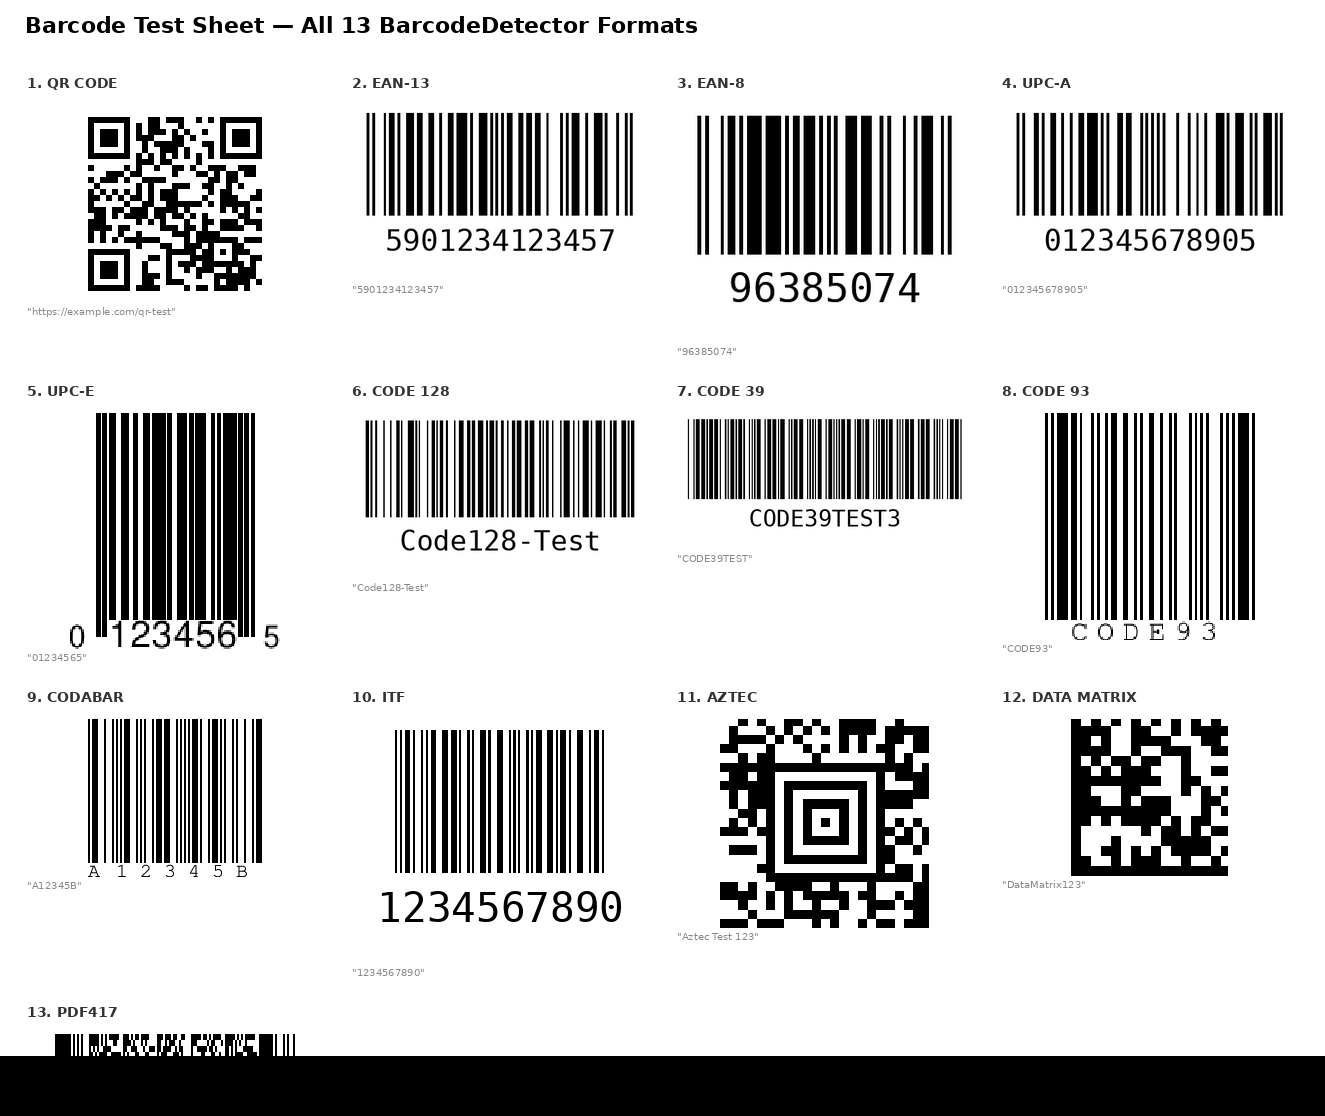
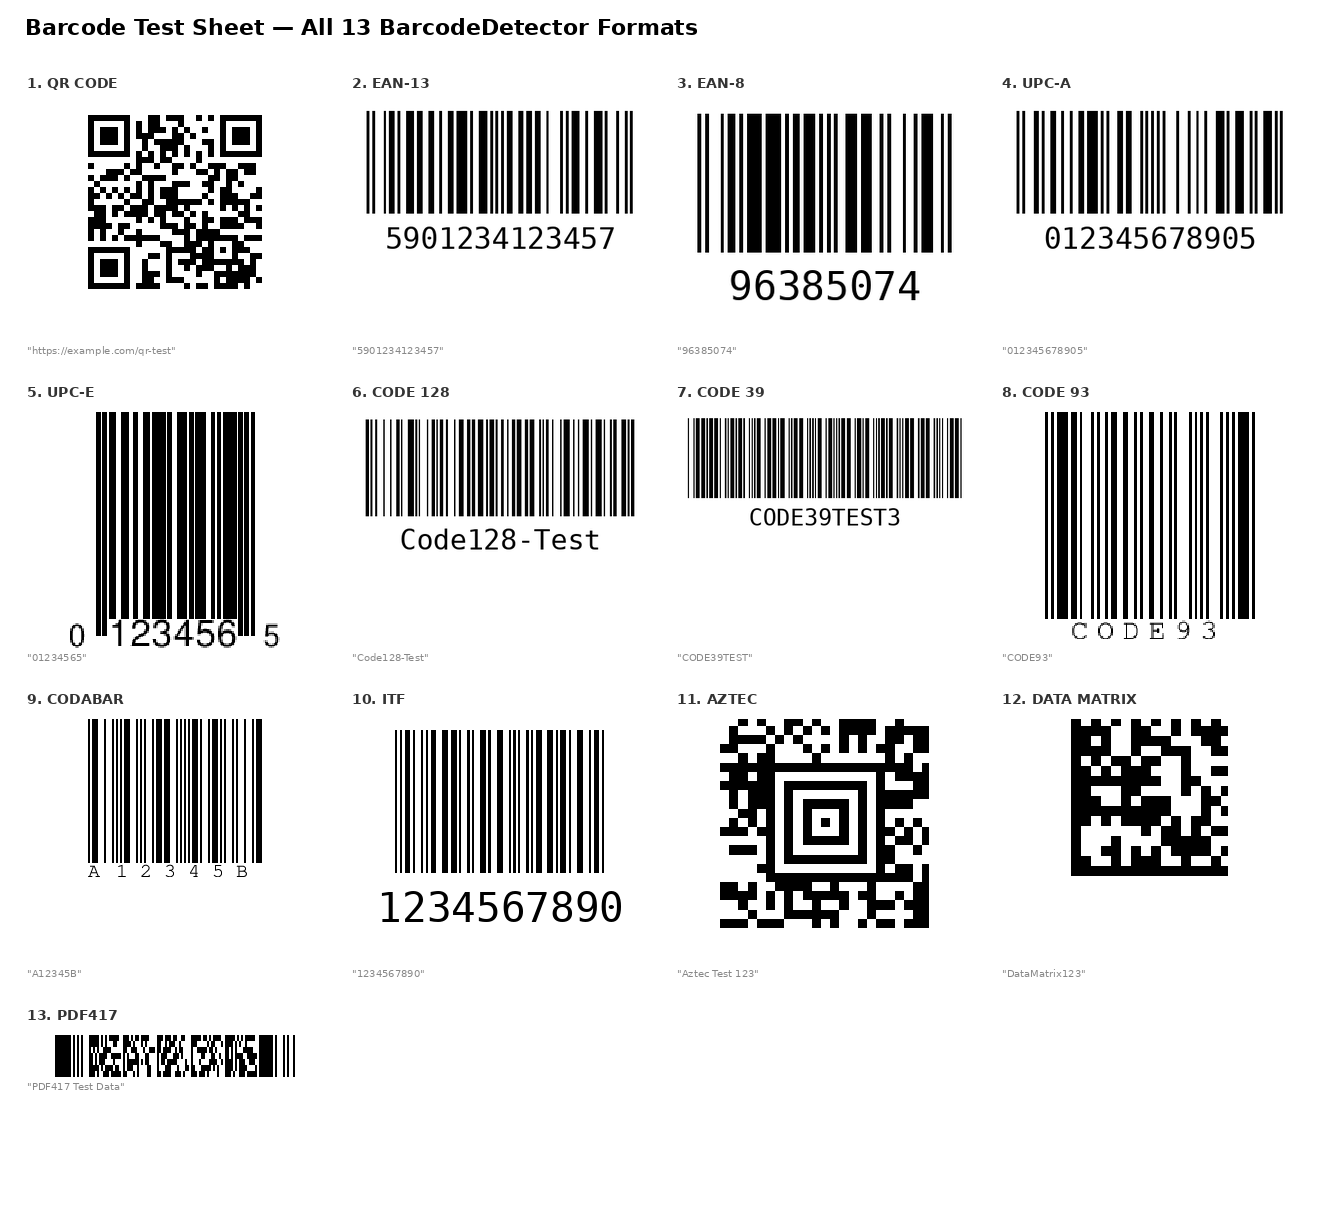
v08.37r Fix barcode test sheet — PDF417 was cut off at bottom
Regenerated barcode-test-sheet.png with additional bottom padding so
all 13 barcodes including PDF417 are fully visible.

https://claude.ai/code/session_01PUVorYMAp4xncJ5EbXYdvH

diff --git a/repository-information/CHANGELOG.md b/repository-information/CHANGELOG.md
@@ -3,9 +3,16 @@
 All notable changes to this project are documented here.
 Format follows [Keep a Changelog](https://keepachangelog.com/en/1.1.0/), with project-specific versioning (`w` = website, `g` = Google Apps Script, `r` = repository). Older sections are rotated to [CHANGELOG-archive.md](CHANGELOG-archive.md) when this file exceeds 100 version sections.
 
-`Sections: 73/100`
+`Sections: 74/100`
 
 ## [Unreleased]
+
+## [v08.37r] — 2026-04-01 03:29:13 PM EST
+
+> **Prompt:** "the image you made is cutt off"
+
+### Fixed
+- Regenerated `barcode-test-sheet.png` with proper bottom padding — PDF417 (item 13) was cut off at the bottom edge
 
 ## [v08.36r] — 2026-04-01 03:25:54 PM EST
 

diff --git a/README.md b/README.md
@@ -2,7 +2,7 @@
 
 A GitHub Pages deployment framework with automatic version polling, auto-refresh, and Google Apps Script (GAS) embedding support.
 
-Last updated: `2026-04-01 03:25:54 PM EST` · Repo version: `v08.36r`
+Last updated: `2026-04-01 03:29:13 PM EST` · Repo version: `v08.37r`
 
 You are currently using the **saistemplateprojectrepo** developed by **ShadowAISolutions**<br>
 Initialize your repository and Claude will update the live site link and QR code here
